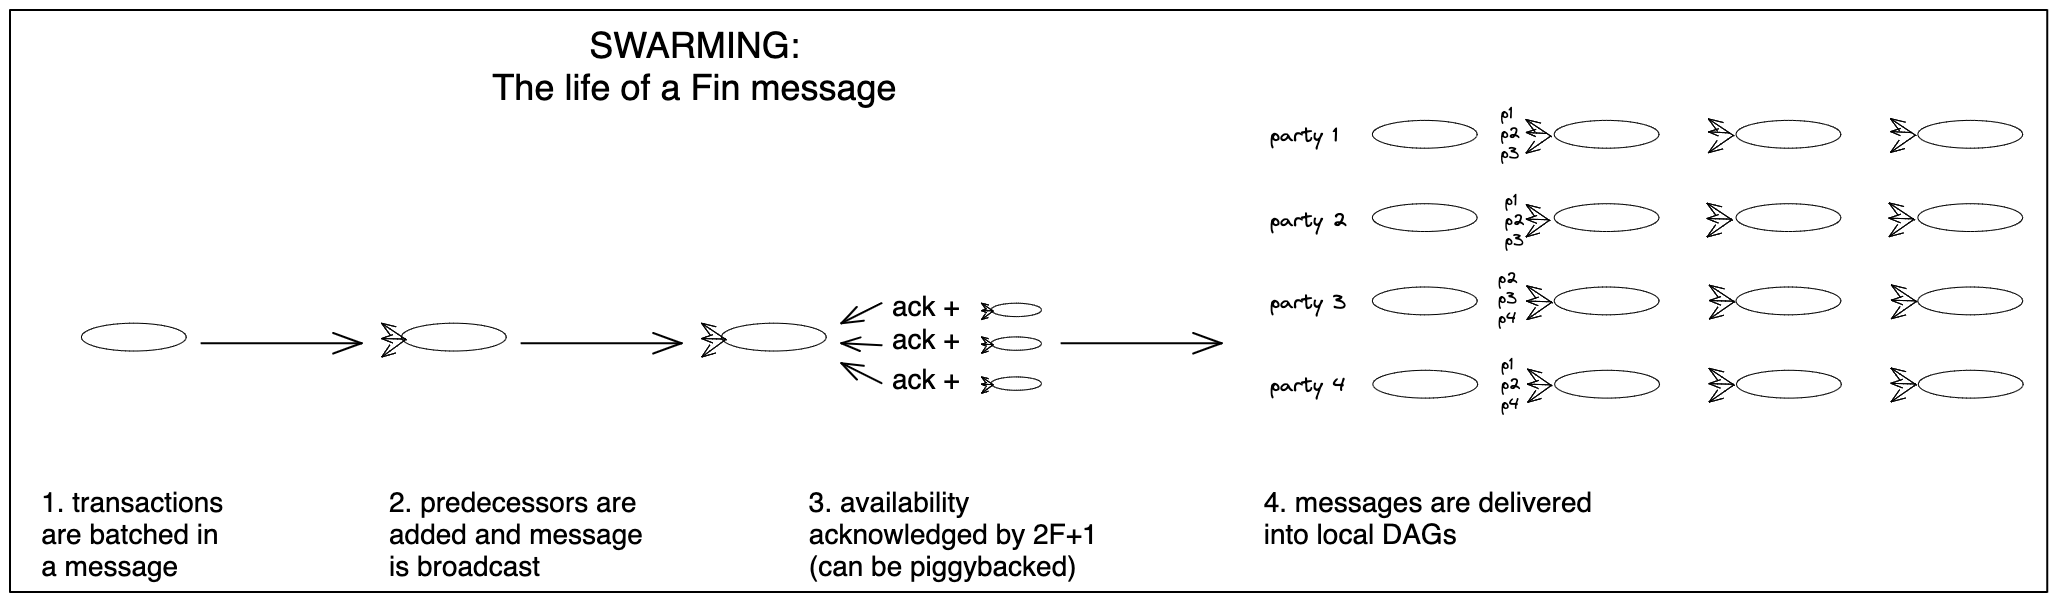
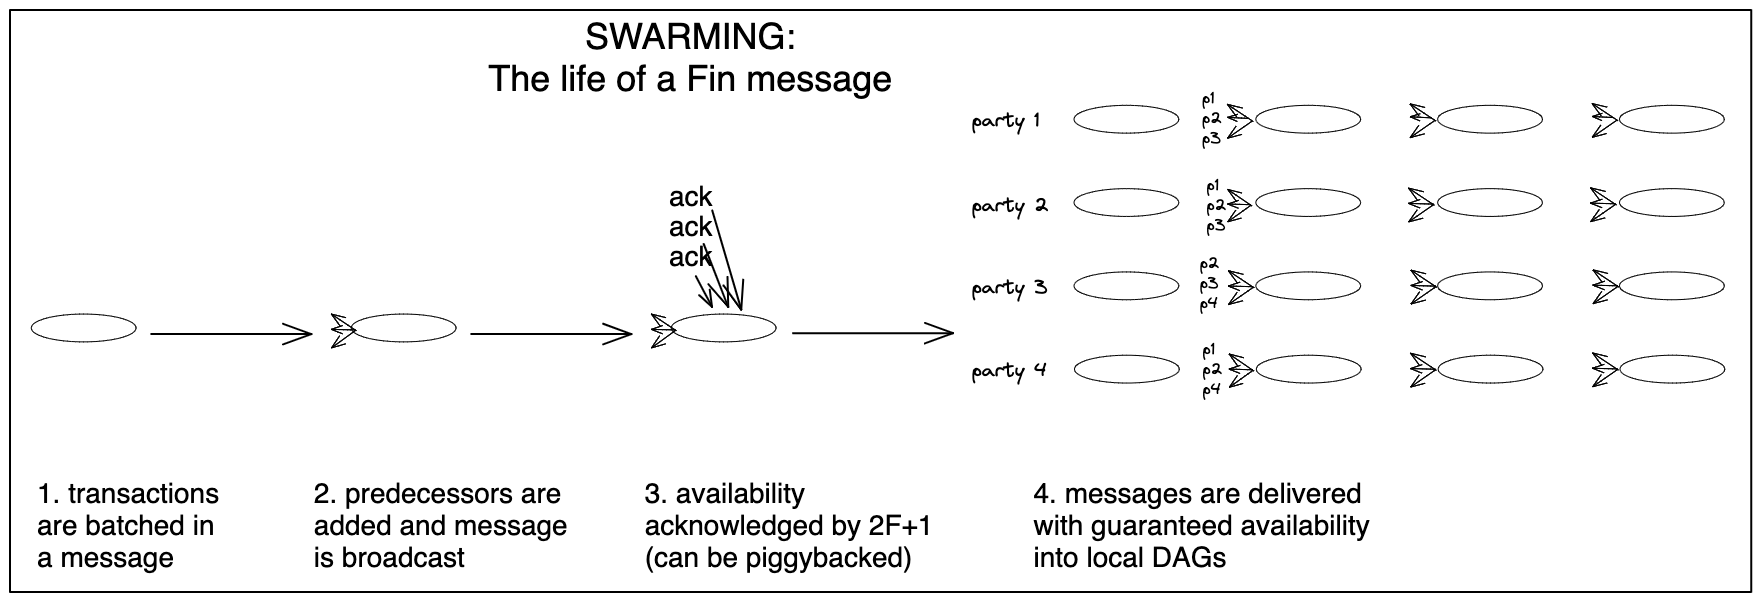
working on DAG draft

diff --git a/_drafts/DAG-BFT.md b/_drafts/DAG-BFT.md
@@ -92,7 +92,7 @@ contains comparison notes on DAG-based BFT Consensus solutions.
   <img src="/images/FIN/SWARMING.png" />
 
   **_Figure 1:_** 
-  _A causality graph of messages, each message "fin" refers to preceding messages._ 
+  _A causality graph of Fin messages. Each messages has guaranteed availability. Each carries references to preceding messages._ 
 
 DAG Trans is a reliable, causal broadcast communication substrate for disseminating transactions among N=3F+1 parties, at most F of which are presumed Byzantine faulty and the rest are honest.
 The substrate exposes three basic API's, `broadcast()`, `deliver()`, and `setInfo()`. 
